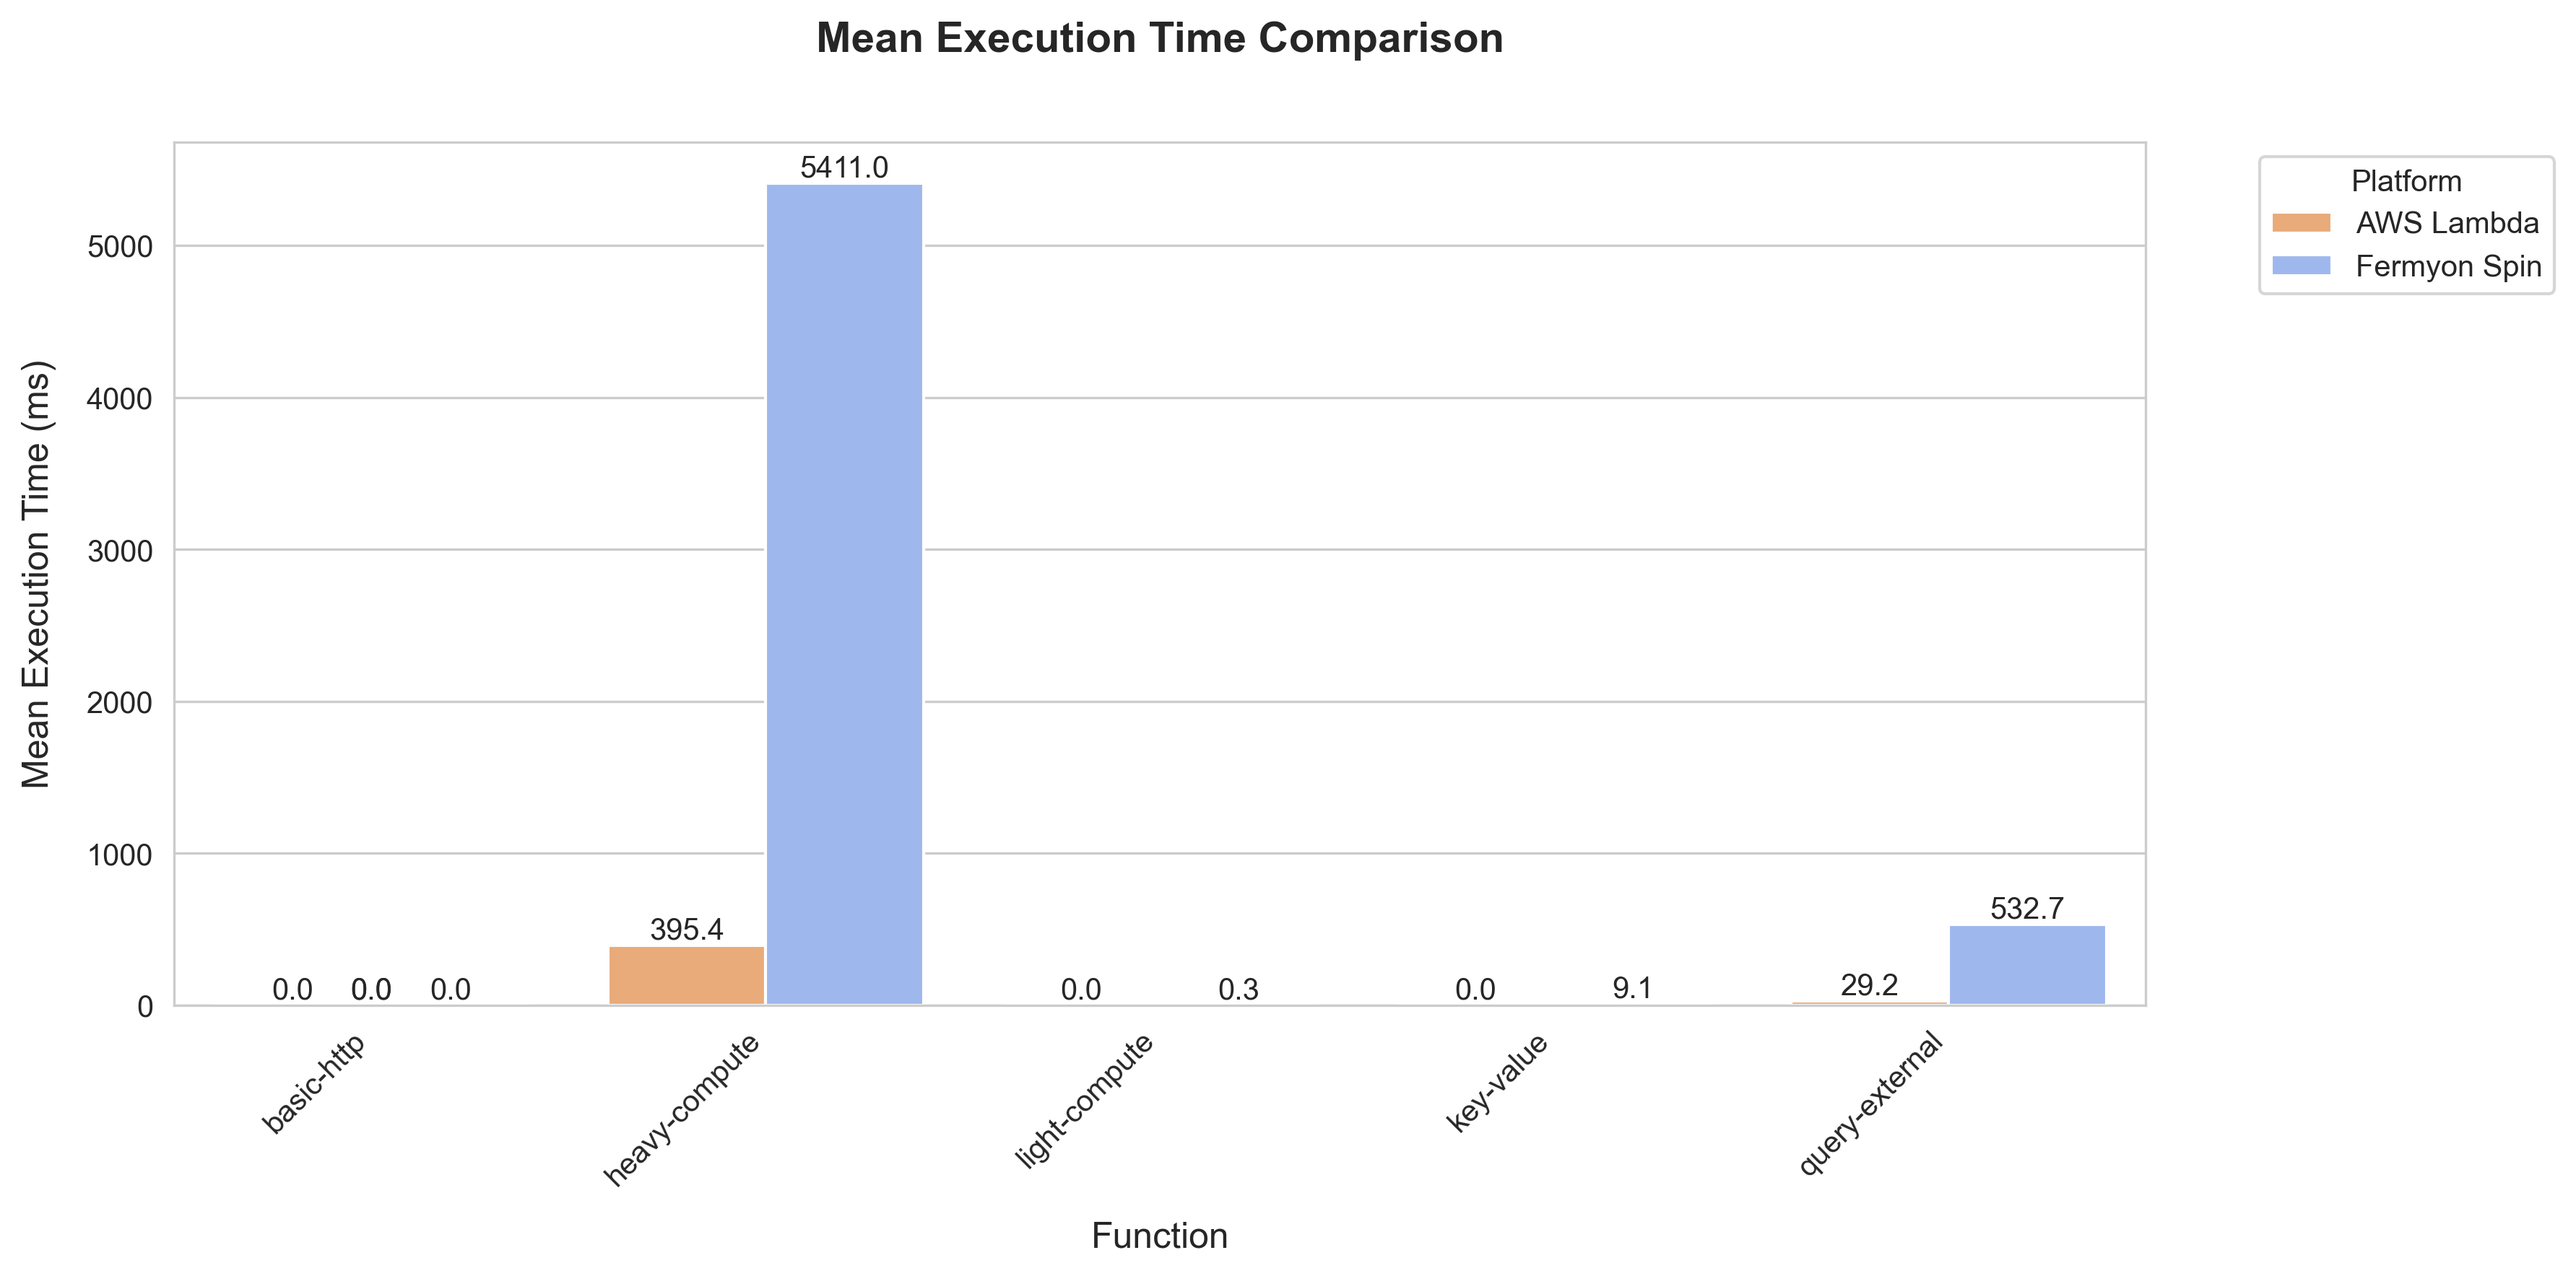
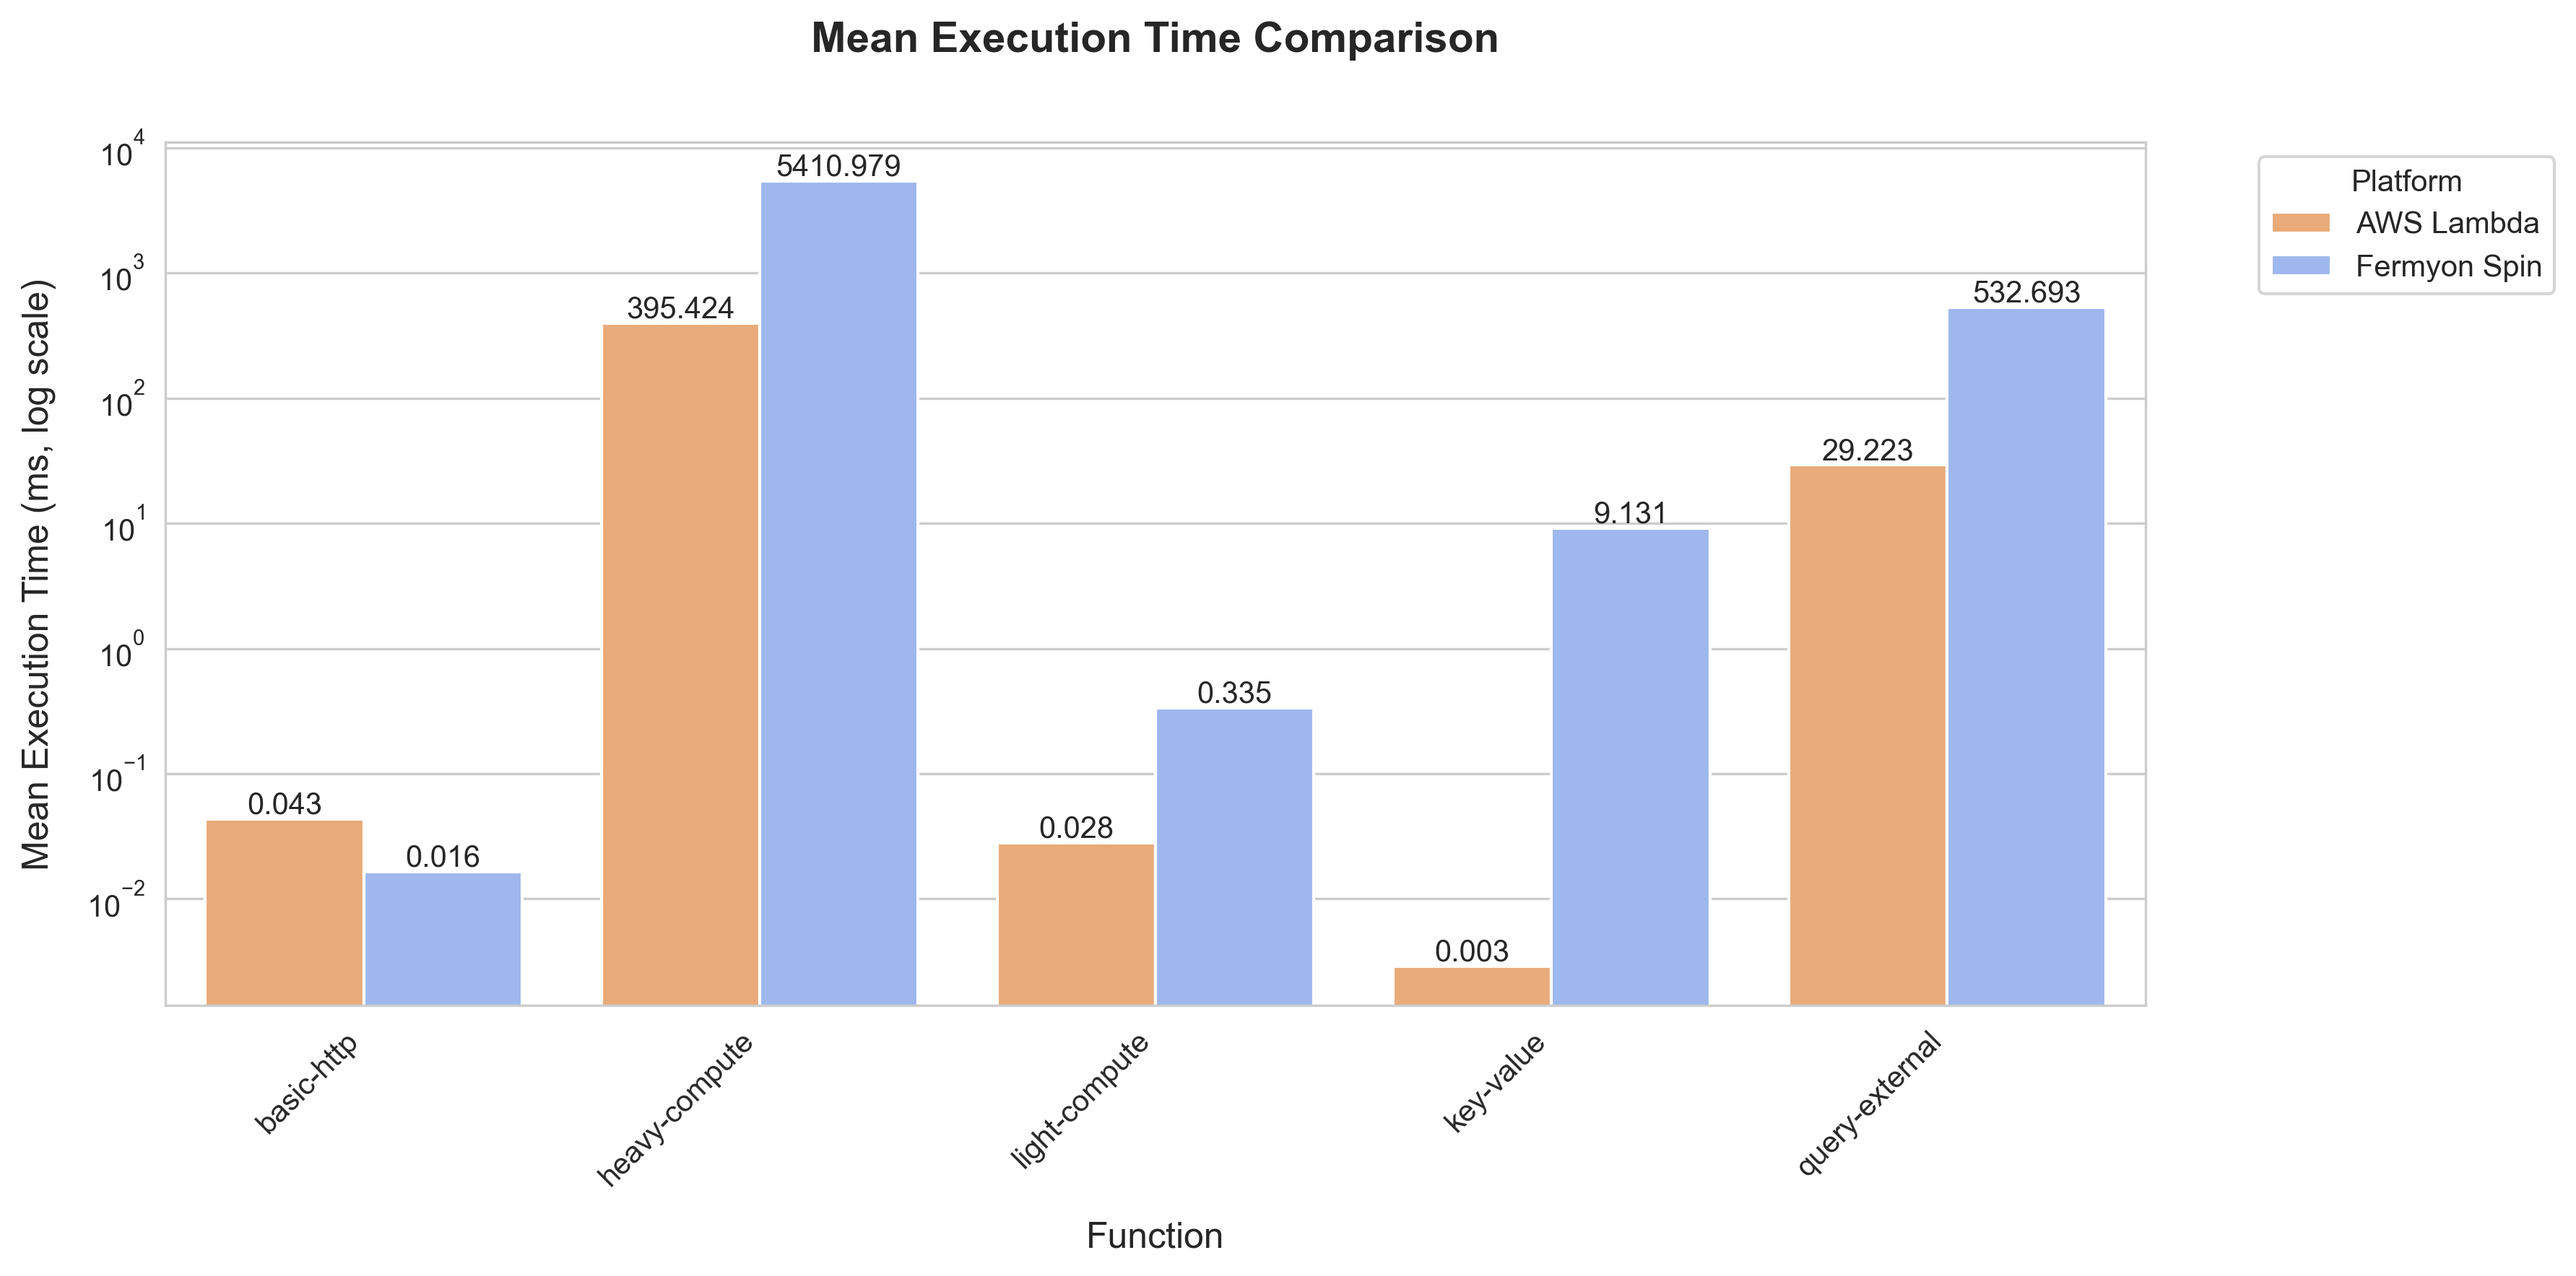
imrpove mean execution graph

diff --git a/h1/scripts/h1_execution_performance.py b/h1/scripts/h1_execution_performance.py
@@ -205,30 +205,7 @@ def generate_visualizations(df_exec, comparison_df):
                 dpi=300, bbox_inches='tight')
     plt.close()
     
-    # 2. Function Execution Bar Plot
-    plt.figure(figsize=(12, 6))
-    ax = sns.barplot(x='name', y='execution_ms', hue='platform', data=df_exec,
-                     palette=PLATFORM_COLORS, hue_order=PLATFORM_ORDER,
-                     estimator=np.mean, errorbar=('ci', 95))
-    
-    # Add values on top of bars
-    for p in ax.patches:
-        height = p.get_height()
-        ax.text(p.get_x() + p.get_width()/2., height + 5,
-                f'{height:.1f}',
-                ha='center', va='bottom', fontsize=10)
-    
-    plt.title("Mean Execution Time by Function", weight='bold', pad=15)
-    plt.ylabel("Execution Time (ms)", labelpad=10)
-    plt.xlabel("Function", labelpad=10)
-    plt.xticks(rotation=45, ha='right')
-    plt.legend(title='Platform', bbox_to_anchor=(1.05, 1), loc='upper left')
-    plt.tight_layout()
-    plt.savefig(os.path.join(OUTPUT_DIR, "figures", "function_execution_barplot.png"), 
-                dpi=300, bbox_inches='tight')
-    plt.close()
-    
-    # 3. Mean Execution Comparison
+    # 2. Mean Execution Comparison
     plt.figure(figsize=(12, 6))
     comparison_df['function'] = pd.Categorical(comparison_df['function'], categories=FUNCTION_ORDER, ordered=True)
 
@@ -253,13 +230,15 @@ def generate_visualizations(df_exec, comparison_df):
     # Add values on top of bars
     for p in ax.patches:
         height = p.get_height()
-        ax.text(p.get_x() + p.get_width()/2., height + 5,
-                f'{height:.1f}',
-                ha='center', va='bottom', fontsize=10)
-
+        if height > 0:
+            ax.text(p.get_x() + p.get_width()/2., height,
+                    f'{height:.3f}',
+                    ha='center', va='bottom', fontsize=10)
+        
+    plt.yscale('log')    
     plt.title("Mean Execution Time Comparison\n", 
               weight='bold', pad=15)
-    plt.ylabel("Mean Execution Time (ms)", labelpad=10)
+    plt.ylabel("Mean Execution Time (ms, log scale)", labelpad=10)
     plt.xlabel("Function", labelpad=10)
     plt.xticks(rotation=45, ha='right')
     plt.legend(title='Platform', bbox_to_anchor=(1.05, 1), loc='upper left')
@@ -268,7 +247,7 @@ def generate_visualizations(df_exec, comparison_df):
                 dpi=300, bbox_inches='tight')
     plt.close()
     
-    # 4. Performance Difference Bar Plot (Fermyon vs AWS)
+    # 3. Performance Difference Bar Plot (Fermyon vs AWS)
     plt.figure(figsize=(12, 6))
     ax = sns.barplot(x='function', y='mean_difference', hue='is_significant',
                  data=comparison_df,
@@ -292,7 +271,7 @@ def generate_visualizations(df_exec, comparison_df):
                 dpi=300, bbox_inches='tight')
     plt.close()
 
-    # 5. Box plot comparing execution time by platform and function
+    # 4. Box plot comparing execution time by platform and function
     plt.figure(figsize=(10, 6))
     sns.set_style("whitegrid", {'grid.linestyle': '--', 'grid.alpha': 0.4})
     
